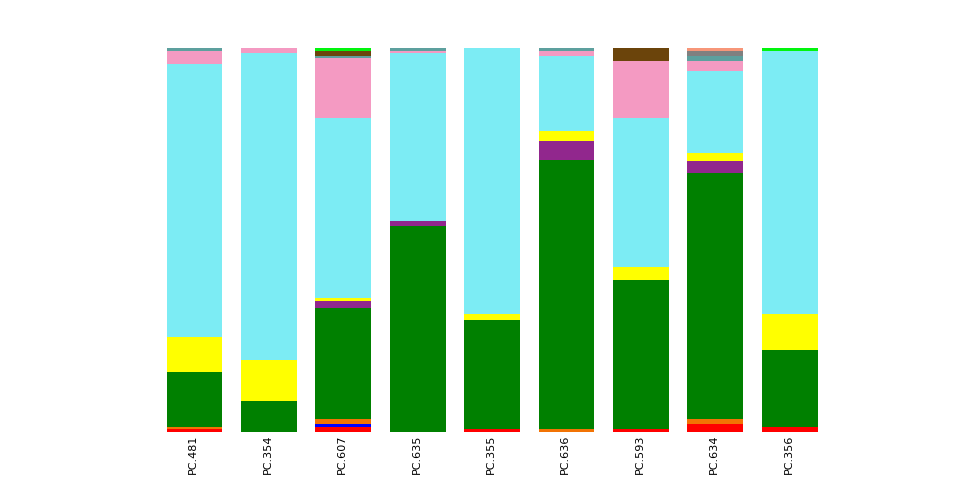
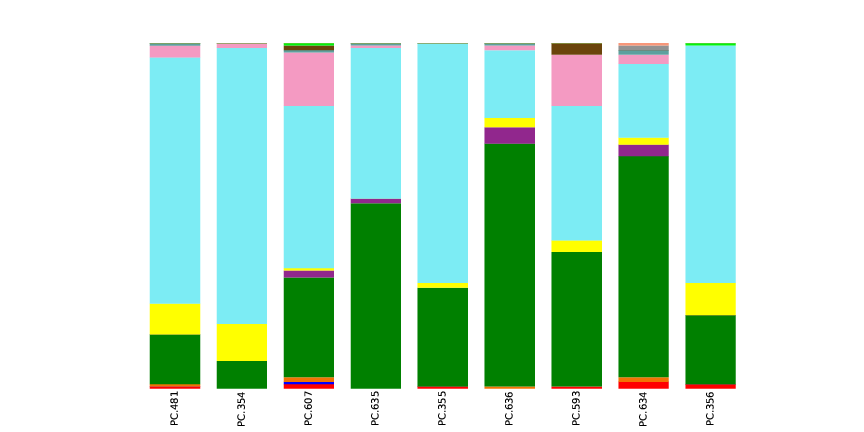
Added legend to bar plot

diff --git a/tut.md b/tut.md
@@ -139,9 +139,9 @@ ls -lh split_library_output/
 
 ```
 ## total 420K
-## -rw-r--r-- 1 high netid_users  317 Sep  1 08:31 histograms.txt
-## -rw-r--r-- 1 high netid_users 409K Sep  1 08:31 seqs.fna
-## -rw-r--r-- 1 high netid_users 1.2K Sep  1 08:31 split_library_log.txt
+## -rw-r--r-- 1 high netid_users  317 Sep  1 14:38 histograms.txt
+## -rw-r--r-- 1 high netid_users 409K Sep  1 14:38 seqs.fna
+## -rw-r--r-- 1 high netid_users 1.2K Sep  1 14:38 split_library_log.txt
 ```
 
 View the logfile.
@@ -353,8 +353,40 @@ fi
 ```
 
 
+```r
+# Note: This is the only part of the script that uses R commands for data processing.
+
+require(XML)
+
+# Extract the names of the PDF files from the bar plot HTML file.
+doc.html <- htmlParse('taxonomy_plot_L3/bar_charts.html')
+doc.links <- xpathSApply(doc.html, "//a/@href")
+pdf.url <- as.character(doc.links[grep('pdf', doc.links)])
+
+# Copy the bar plot PDF to "images" with a consistent name.
+pdf.path <- file.path('taxonomy_plot_L3', pdf.url[1])
+if (file.exists(pdf.path)) {
+    file.copy(pdf.path, file.path('..', 'images', 'taxonomy_plot_L3_bar.pdf'))
+}
+
+# Copy the bar plot legend PDF to "images" with a consistent name.
+pdf.path <- file.path('taxonomy_plot_L3', pdf.url[2])
+if (file.exists(pdf.path)) {
+    file.copy(pdf.path, file.path('..', 'images', 'taxonomy_plot_L3_bar_legend.pdf'))
+}
+```
+
+Convert PDF to PNG.
+
+
+```bash
+convert images/taxonomy_plot_L3_bar.pdf images/taxonomy_plot_L3_bar.png
+convert images/taxonomy_plot_L3_bar_legend.pdf images/taxonomy_plot_L3_bar_legend.png
+```
 
 ![](images/taxonomy_plot_L3_bar.png)
+
+![](images/taxonomy_plot_L3_bar_legend.png)
 
 ## Make a Multiple Sequence Alignment
 
